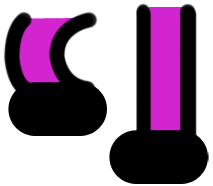
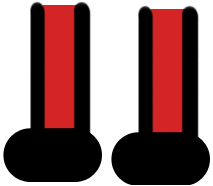
Added end game condition. Need to fix filtering.

diff --git a/the_room.js b/the_room.js
@@ -15,10 +15,14 @@ var characterWidth = 64;
 var characterHeight = 130;
 var showPlayer = false;
 
+var door_start_x = 450;
+var door_end_x = 550;
+
+var allStop = false;
+
 var charVel = 1;
 
 var numCharacters = 12;
-
 
 var genWidth = canvas.width - characterWidth - wallWidth - wallWidth;
 console.log("genWidth = "+genWidth);
@@ -47,6 +51,7 @@ var staticRenderFunc = function(){
 				//console.log("here?")
 //				ctx.fillStyle = "rgb(100,20,60)";	
 				ctx.drawImage(persons[4], characters[i].x, characters[i].y, characterWidth, characterHeight);
+				//drawFrame(ctx, frame, characters[i].x, characters[i].y, characterWidth, characterHeight, characters[i].animIndex);
 //				ctx.fillStyle = "rgb(100,200,6)";
 			}else{
 					ctx.drawImage(persons[characters[i].colour], characters[i].x, characters[i].y, characterWidth, characterHeight);			}
@@ -62,7 +67,14 @@ var animMod = [0,0,1,1];
 dirFuncs[0] = function(character, i){
 	character.y -= charVel;
 	if(character.y<topBoundary){ 
-		character.y = topBoundary;
+
+		if(character.x > door_start_x && character.x > door_end_x  && character.life<0){
+			if(character.y<=0){
+				allStop=true;
+			}
+		}else{
+			character.y = topBoundary;
+		}
 		//If in door way, ignore boundary. check for completion.
 	}
 	var j = parseInt(i);
@@ -133,7 +145,7 @@ var stepRenderFunc = function(){
 	}
 	interval_count = (++interval_count)%intervalsPerFrame;
 
-	if(frame == 0){
+	if(frame == 0 || allStop){
 		//Return to static functionality
 		endStep();
 		renderFunc = staticRenderFunc;
@@ -154,8 +166,11 @@ function drawRoom(){
 }
 
 function drawBackground(){
-	ctx.fillStyle = "rgb(0,0,0)";
-	ctx.fillRect(wallWidth, 0, genWidth+characterWidth, backWallHeight);
+	//ctx.fillStyle = "rgb(0,0,0)";
+	//ctx.fillRect(wallWidth, 0, genWidth+characterWidth, backWallHeight);
+	
+	ctx.drawImage(document.getElementById("bg"), wallWidth, 0, canvas.width-wallWidth - wallWidth, canvas.height-wallWidth);
+	ctx.drawImage(document.getElementById("door"), wallWidth, 0, canvas.width-wallWidth - wallWidth, canvas.height);
 }
 
 //character = {"x":0, "y":0, "dir":[0,1,2,3], "life":10, "currDir":0, "colour":0, animDir:0};//
@@ -168,7 +183,7 @@ for(var i = 0; i<numCharacters; i++){
 	newChar.y = Math.floor(Math.random()*genHeight)+backWallHeight;
 	console.log(newChar.x+" chosen from "+wallWidth+" to "+(genWidth+wallWidth));
 	console.log(newChar.y+" chosen from "+backWallHeight+" to "+(genHeight+backWallHeight));
-	newChar.colour = Math.floor(Math.random()*12)%4;
+	newChar.colour = Math.floor(Math.random()*12)%2;
 	newChar.currDir = 0;
 	newChar.animIndex = 0;
 	newChar.dir = [0,0,0,0];
@@ -244,9 +259,10 @@ setInterval(function() {
 		//clear canvas
 		ctx.clearRect(wallWidth, 0, canvas.width-wallWidth - wallWidth, canvas.height-wallWidth);
 
-		renderFunc();
 		drawBackground();
-		//draw frame in canvas
+		renderFunc();
+
+				//draw frame in canvas
 	/*	if(inStep){
     	drawFrame(canvas_context, frame, 0, 0, 96, 164);
 		}
@@ -264,6 +280,8 @@ setInterval(function() {
 
 
 function step(dir){
+	if(allStop) return;
+
 	for(var i in characters){
 	//	console.log("dirFuncs of "+characters[i].dir[dir]+" = "+dirFuncs[characters[i].dir[dir]]);
 		characters[i].currDir = dirFuncs[characters[i].dir[dir]];
@@ -300,10 +318,4 @@ function assignPlayerDirections(character){
 	}
 }
 
-function show(){
-	showPlayer = true;
-}
 
-function hide(){
-	showPlayer = false;
-}

diff --git a/the_room.html b/the_room.html
@@ -1,12 +1,15 @@
 <html>
 	<head id="head">
 		<!--<link rel="stylesheet" type="text/css" href="the_room.css">-->
-		<img id="C0" src="man0.png" style="display:none;" />
-		<img id="C1" src="man1.png" style="display:none;" />  
-		<img id="C2" src="man2.png" style="display:none;" />  
+		<img id="C0" src="frontman1static.png" style="display:none;" />
+		<img id="C1" src="frontman2static.png" style="display:none;" />  
+	<!--	<img id="C2" src="man2.png" style="display:none;" />  
 		<img id="C3" src="man3.png" style="display:none;" />  
 		<img id="C4" src="man4.png" style="display:none;" />    
-		<img id="mann" src="mann.png" style="display:none;" />
+		<img id="mann" src="mann.png" style="display:none;" />-->
+
+		<img id="bg" src="background.png" style="display:none;" /> 
+		<img id="door" src="backdoor.png" style="display:none;" /> 
 
 		<img id="sidewalkingman1" src="sidewalkingman1.png" style="display:none;" />  
 		<img id="sidewalkingman1legs1" src="sidewalkingman1legs1.png" style="display:none;" /> 
@@ -26,7 +29,7 @@
 		<img id="frontman2legs2" src="frontman2legs2.png" style="display:none;" />
 		<img id="frontman2legs3" src="frontman2legs3.png" style="display:none;" /> 
 
-		<img id="sidewalkingman3" src="sidewalkingman3.png" style="display:none;" />  
+	<!--	<img id="sidewalkingman3" src="sidewalkingman3.png" style="display:none;" />  
 		<img id="sidewalkingman3legs1" src="sidewalkingman3legs1.png" style="display:none;" /> 
 		<img id="sidewalkingman3legs2" src="sidewalkingman3legs2.png" style="display:none;" />
 		<img id="sidewalkingman3legs3" src="sidewalkingman3legs3.png" style="display:none;" /> 
@@ -42,7 +45,7 @@
 		<img id="frontman4" src="frontman4.png" style="display:none;" />  
 		<img id="frontman4legs1" src="frontman4legs1.png" style="display:none;" /> 
 		<img id="frontman4legs2" src="frontman4legs2.png" style="display:none;" />
-		<img id="frontman4legs3" src="frontman4legs3.png" style="display:none;" /> 
+		<img id="frontman4legs3" src="frontman4legs3.png" style="display:none;" /> -->
 	</head>
 	<body>
 		<canvas id="canvas" height=924 width=1024>This browser does not support canvas</canvas>

diff --git a/patch.js b/patch.js
@@ -70,9 +70,9 @@ var patches =
 
 	[{"id":0,"img":"sidewalkingman2legs2", "x":83, "y":506, "width":213, "height":186},
 	{"id":2,"img":"sidewalkingman2", "x":21, "y":0, "width":275, "height":633}]
-]},
+]}
 
-{"width":296, "height":692, "max_id":4, "layer_names":["Torso","leg1","leg2","leg3"], "frames":[
+/*{"width":296, "height":692, "max_id":4, "layer_names":["Torso","leg1","leg2","leg3"], "frames":[
 	[{"id":0, "img":"frontman3legs1", "x":10, "y":506, "width":286, "height":186},
 	{"id":1,"img":"frontman3", "x":21, "y":0, "width":275, "height":633}],
 
@@ -126,7 +126,7 @@ var patches =
 
 	[{"id":0,"img":"sidewalkingman4legs2", "x":83, "y":506, "width":213, "height":186},
 	{"id":2,"img":"sidewalkingman4", "x":21, "y":0, "width":275, "height":633}]
-]}
+]}*/
 
 ]
 
